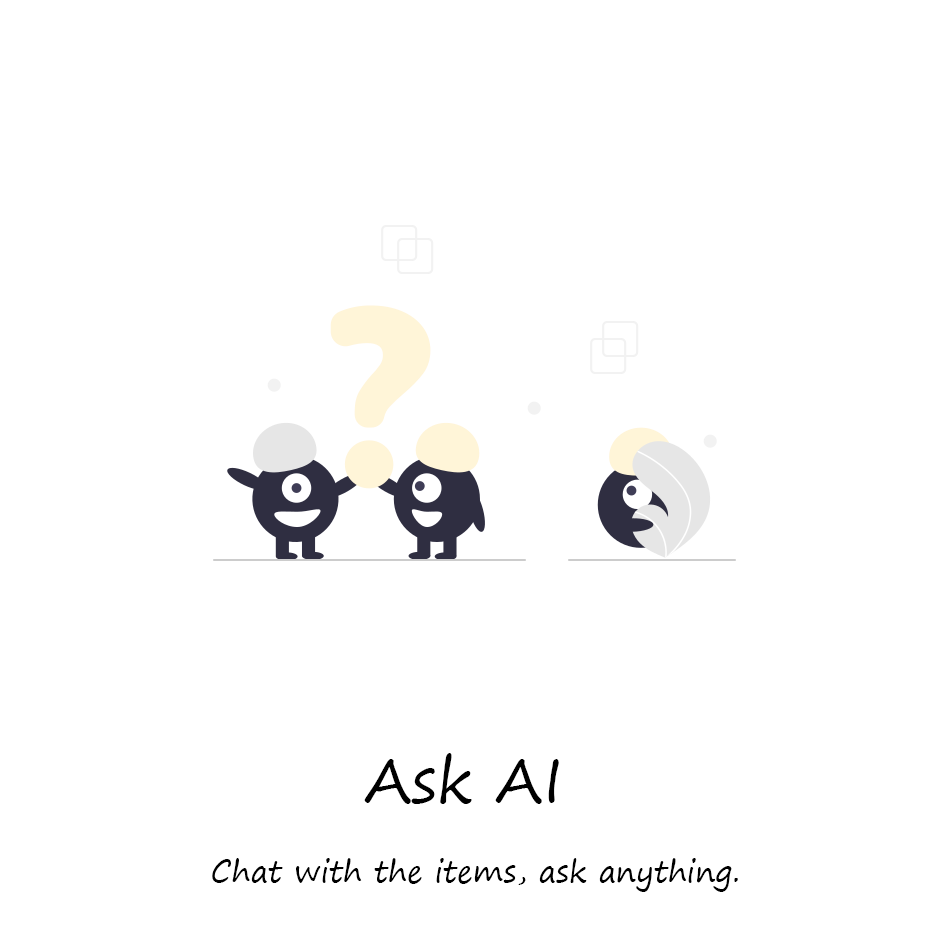
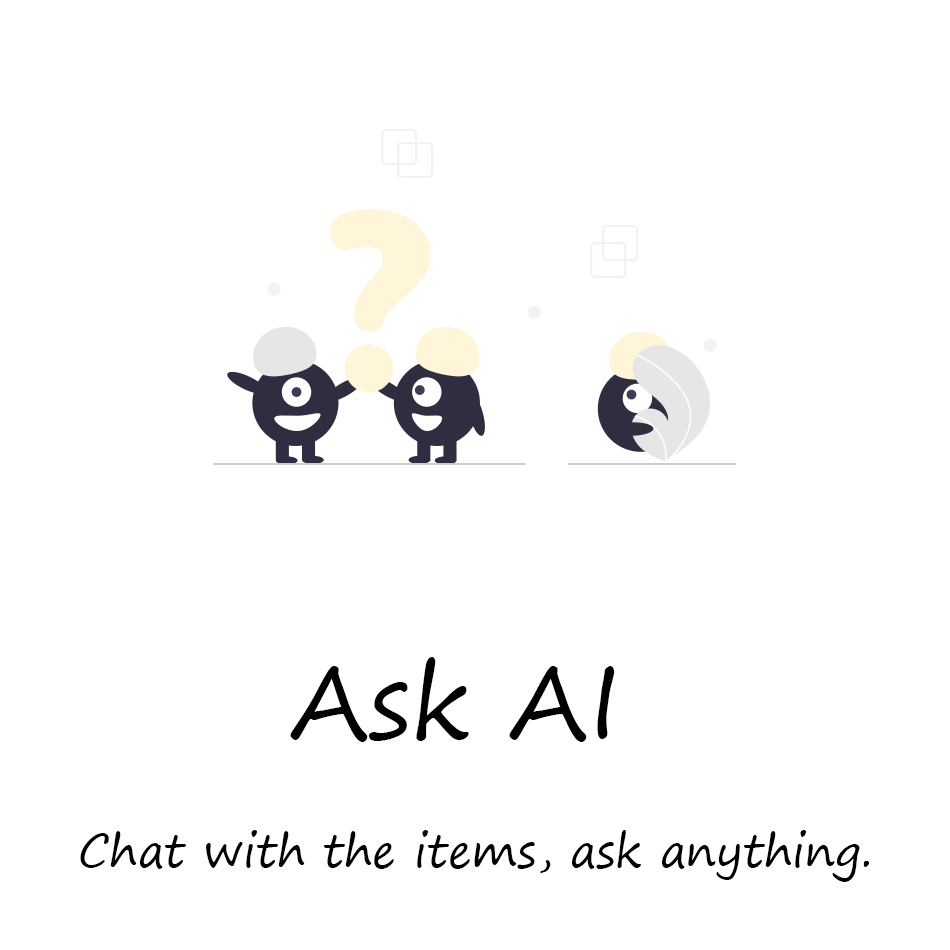
change layout

diff --git a/shopgpt_vue_app/src/views/HomePage.vue b/shopgpt_vue_app/src/views/HomePage.vue
@@ -3,20 +3,25 @@
     <el-container class="el-container">
       <el-header class="el-header">
         <el-row :gutter="20" justify="center">
-          <el-col :xs="22" :sm="22" :md="22" :lg="22">
+          <el-col :xs="20" :sm="21" :md="22" :lg="23">
             <el-image
               style="width: 150px; height: 50px"
               :src="require('@/assets/images/shopGPT_logo_noBG_banner.png')"
               :fit="contain" class="logo">
             </el-image>
           </el-col>
-          <el-col :xs="2" :sm="2" :md="2" :lg="2" class="google-login">
+          <el-col :xs="4" :sm="3" :md="2" :lg="1" class="google-login">
             <el-dropdown>
-              <el-button :icon="Avatar" circle />
+              <el-avatar v-if="userPicture" :src="userPicture" />
+              <el-button v-else size="large" :icon=Avatar circle />
               <template #dropdown>
               <el-dropdown-menu>
-                <el-dropdown-item><GoogleLogin :callback="callback" /></el-dropdown-item>
-                <el-dropdown-item><el-button @click="gLogout">Log Out</el-button></el-dropdown-item>
+                <el-dropdown-item>
+                    <el-button @click="login">Log in by Gmail</el-button>
+                </el-dropdown-item>
+                <el-dropdown-item>
+                  <el-button @click="gLogout">Log Out</el-button>
+                </el-dropdown-item>
               </el-dropdown-menu>
             </template>
             </el-dropdown>
@@ -37,14 +42,31 @@
     <el-row :gutter="20" justify="center" class="fine-tune-section">
       <el-col :xs="24" :sm="18" :md="14" :lg="10">
         <el-card v-if="searchResults['qualities-properties'] && searchResults['qualities-properties'].length" shadow="hover" class="fine-tune-card">
-          <!-- <h2>Things to consider when shopping {{ searchResults.target }}</h2> -->
           <QualityProperty v-for="quality in searchResults['qualities-properties']" :key="quality.name" :quality="quality" @option-selected="updateQuality" />
           <SearchButton v-if="searchResults['qualities-properties'] && searchResults['qualities-properties'].length" @submit="submitQualities" label="Fine Tune Choices!" class="fine-tune-button" />
         </el-card>
       </el-col>
     </el-row>
     </el-main>
-      <!-- <el-footer>Footer</el-footer> -->
+      <el-footer height="10px">
+        <el-row gutter="10" justify="center" class="footer-section">
+          <el-col :xs="1" :sm="1" :md="6" :lg="6" class="centered-content"></el-col>
+          <el-col :xs="6" :sm="6" :md="3" :lg="3" class="centered-content">
+            <router-link to="/privacy-policy">
+              <el-link type="info">Privacy Policy</el-link>
+            </router-link>
+          </el-col>
+          <el-col :xs="10" :sm="10" :md="6" :lg="6" class="centered-content">
+            <el-link type="info">ShopGPT&reg;</el-link>
+          </el-col>
+          <el-col :xs="6" :sm="6" :md="3" :lg="3" class="centered-content">
+            <router-link to="/terms-of-service">
+              <el-link type="info">Terms of Service</el-link>
+            </router-link>
+          </el-col>
+          <el-col :xs="1" :sm="1" :md="6" :lg="6" class="centered-content"></el-col>
+        </el-row>
+      </el-footer>
     </el-container>
     </div>
   </template>
@@ -58,7 +80,9 @@ import ChoiceCard from '../components/ChoiceCard.vue'
 import QualityProperty from '../components/QualityProperty.vue'
 import SearchButton from '../components/SearchButton.vue'
 import { googleLogout } from "vue3-google-login"
-import { decodeCredential } from 'vue3-google-login'
+// import { decodeCredential } from 'vue3-google-login'
+import { googleTokenLogin } from "vue3-google-login"
+import { onMounted } from 'vue'
 
 import defaultImage1 from '@/assets/images/undraw_Web_search_re_efla.png';
 import defaultImage2 from '@/assets/images/undraw_Faq_re_31cw.png';
@@ -68,6 +92,7 @@ import {
   Avatar,
 } from '@element-plus/icons-vue'
 
+
 // Vuex store
 const store = useStore()
 
@@ -76,6 +101,7 @@ let item_query = ref(null)
 let selectedQualities = ref({})
 let askResponse = ref(null)
 let loading = computed(() => store.state.loading);
+let userPicture = ref(null);
 
 // Initialize default choices
 let defaultChoices = reactive([
@@ -150,16 +176,55 @@ const open = (askResponse) => {
   })
 }
 
-const callback = (response) => {
-  const userData = decodeCredential(response.credential)
-  console.log("Handle the userData", userData)
+const getUserData = async (accessToken) => {
+  try {
+    const response = await fetch(`https://www.googleapis.com/oauth2/v1/userinfo?alt=json&access_token=${accessToken}`);
+    if (!response.ok) {
+      throw new Error(`HTTP error ${response.status}`);
+    }
+    const userData = await response.json();
+    console.log("User data: ", userData);
+    return userData;
+  } catch (error) {
+    console.error("Error fetching user data: ", error);
+  }
 }
+
+const login = () => {
+  googleTokenLogin().then((response) => {
+    console.log("Handle the response", response)
+    getUserData(response.access_token).then((data) => {
+      userPicture.value = data.picture
+      // Save user data to local storage
+      const userData = { ...response, picture: data.picture }
+      localStorage.setItem('userData', JSON.stringify(userData))
+    })
+  })
+}
+
 
 const gLogout = () => {
   // your logout logics
   googleLogout()
+  // Clear user data from local storage
+  localStorage.removeItem('userData')
+  // Reset userPicture
+  userPicture.value = null
   console.log("logout")
 }
+
+
+onMounted(() => {
+  // Check local storage for user data
+  const storedUserData = localStorage.getItem('userData')
+
+  if (storedUserData) {
+    // Parse the user data and update userPicture
+    const userData = JSON.parse(storedUserData)
+    userPicture.value = userData.picture
+  }
+})
+
 
 </script>
 
@@ -199,6 +264,13 @@ const gLogout = () => {
     margin-top: 10px;
   }
 
+  .centered-content{
+    display: flex;
+    justify-content: center;
+    align-items: center;
+    padding-top: 5px;
+  }
+
   .el-container{
     background-color: #f5c4c9;
     padding-top: 10px;
@@ -213,7 +285,7 @@ const gLogout = () => {
   }
 
   .google-login{
-    padding-top: 10px;
+    padding-top: 5px;
   }
   
 </style>

diff --git a/shopgpt_vue_app/src/components/SearchForm.vue b/shopgpt_vue_app/src/components/SearchForm.vue
@@ -1,7 +1,7 @@
 <template>
     <div class="search-form">
       <form @submit.prevent="submitForm">
-        <el-input v-model="item_query" placeholder="Enter item or description" :prefix-icon="Search" clearable maxlength="30" show-word-limit size="large" :autofocus="true">
+        <el-input v-model="item_query" placeholder="Enter item or description" :prefix-icon="Search" clearable maxlength="50" show-word-limit size="large" :autofocus="true">
           <template #append>
             <el-button type="primary" @click="submitForm">Search</el-button>
           </template>

diff --git a/shopgpt_vue_app/src/components/QualityProperty.vue b/shopgpt_vue_app/src/components/QualityProperty.vue
@@ -1,10 +1,10 @@
 <template>
   <div class="quality-property">
     <el-row>
-      <el-col :xs="24" :sm="12" :md="8" :lg="6">
+      <el-col :xs="12" :sm="12" :md="12" :lg="12">
         <label for="quality-select">{{ quality.quality }}: </label>
       </el-col>
-      <el-col :xs="24" :sm="12" :md="8" :lg="6">
+      <el-col :xs="12" :sm="12" :md="12" :lg="12">
         <select id="quality-select" @change="optionSelected">
           <option v-for="option in quality.options" :key="option" :selected="option === quality.options[0]">{{ option }}</option>
         </select>

diff --git a/shopgpt_vue_app/src/main.js b/shopgpt_vue_app/src/main.js
@@ -11,6 +11,7 @@ import './assets/global.css'
 import * as ElementPlusIconsVue from '@element-plus/icons-vue'
 import vue3GoogleLogin from 'vue3-google-login'
 
+
 // Import your views
 import HomePage from './views/HomePage.vue'
 import PrivacyPolicy from './views/PrivacyPolicy.vue'
